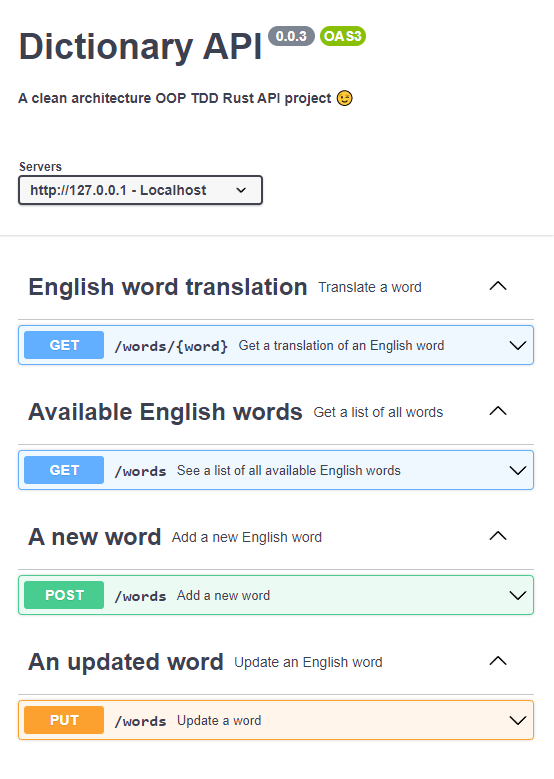
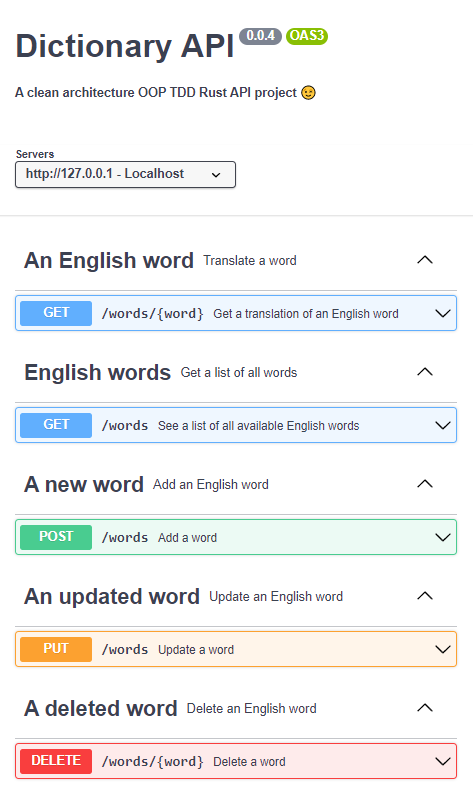
update

diff --git a/src/frameworks_and_drivers/front_controller.rs b/src/frameworks_and_drivers/front_controller.rs
@@ -79,7 +79,7 @@ mod tests {
         //find existing word
         let http_request: Box<dyn HttpRequestInterface> = Box::new(HttpRequest::new(
             HttpMethod::Get,
-            "/words/ability".to_owned(),
+            "/words/testworda".to_owned(),
             None,
         ));
 
@@ -87,12 +87,12 @@ mod tests {
 
         assert!(http_response
             .view_response()
-            .contains("ability\n1000\nспособность"));
+            .contains("testworda\n1000\nлебедь"));
 
         //find non-existing word
         let http_request: Box<dyn HttpRequestInterface> = Box::new(HttpRequest::new(
             HttpMethod::Get,
-            "/words/qazxsw".to_owned(),
+            "/words/notexistant".to_owned(),
             None,
         ));
 
@@ -100,7 +100,7 @@ mod tests {
 
         assert!(http_response
             .view_response()
-            .contains("Word \"qazxsw\" is not found"));
+            .contains("Word \"notexistant\" is not found"));
     }
 
     #[test]
@@ -124,18 +124,19 @@ mod tests {
 
         let http_response = front_controller.delegate(http_request);
 
-        assert!(["a", "ability", "able"]
+        assert!(["testworda", "testwordb", "testwordc"]
             .iter()
             .all(|&word| http_response.view_response().contains(word)));
     }
 
     #[test]
-    fn add_word_and_update() {
+    fn add_word_then_update_then_delete() {
         let router: Box<dyn RouterInterface> = {
             let mut routes = vec![
                 Route::new(HttpMethod::Get, "/words/*", "find_word"),
                 Route::new(HttpMethod::Post, "/words", "add_word"),
                 Route::new(HttpMethod::Put, "/words", "update_word"),
+                Route::new(HttpMethod::Delete, "/words/*", "delete_word"),
             ];
 
             let mut router = Box::new(Router::new());
@@ -153,7 +154,7 @@ mod tests {
 
         let mut front_controller = FrontController::new(dispatcher, router, word_unit);
 
-        //get non-existing word
+        //sure word not exists
         let http_request: Box<dyn HttpRequestInterface> = Box::new(HttpRequest::new(
             HttpMethod::Get,
             "/words/newword".to_owned(),
@@ -166,24 +167,26 @@ mod tests {
             .view_response()
             .starts_with("HTTP/1.1 404 Not Found"));
 
-        //add non-existing word
+        //add word
         let http_request: Box<dyn HttpRequestInterface> = Box::new(HttpRequest::new(
             HttpMethod::Post,
             "/words".to_owned(),
             Some(ApplicationRequest::Word((
                 "newword".to_owned(),
-                3000,
+                5000,
                 "новое слово".to_owned(),
             ))),
         ));
 
         let http_response = front_controller.delegate(http_request);
 
+        front_controller.commit_changes();
+
         assert!(http_response
             .view_response()
             .starts_with("HTTP/1.1 201 Created"));
 
-        //check new word
+        //check word added
         let http_request: Box<dyn HttpRequestInterface> = Box::new(HttpRequest::new(
             HttpMethod::Get,
             "/words/newword".to_owned(),
@@ -192,10 +195,66 @@ mod tests {
 
         let http_response = front_controller.delegate(http_request);
 
-        //assert_eq!("", http_response.view_response());
-
         assert!(http_response.view_response().starts_with("HTTP/1.1 200 OK"));
 
+        //update word
+        let http_request: Box<dyn HttpRequestInterface> = Box::new(HttpRequest::new(
+            HttpMethod::Put,
+            "/words".to_owned(),
+            Some(ApplicationRequest::Word((
+                "newword".to_owned(),
+                7000,
+                "новоеслово".to_owned(),
+            ))),
+        ));
+
+        let http_response = front_controller.delegate(http_request);
+
         front_controller.commit_changes();
+
+        assert!(http_response
+            .view_response()
+            .starts_with("HTTP/1.1 204 No Content"));
+
+        //check word updated
+        let http_request: Box<dyn HttpRequestInterface> = Box::new(HttpRequest::new(
+            HttpMethod::Get,
+            "/words/newword".to_owned(),
+            None,
+        ));
+
+        let http_response = front_controller.delegate(http_request);
+
+        assert!(http_response
+            .view_response()
+            .contains("newword\n7000\nновоеслово"));
+
+        //delete word
+        let http_request: Box<dyn HttpRequestInterface> = Box::new(HttpRequest::new(
+            HttpMethod::Delete,
+            "/words/newword".to_owned(),
+            None,
+        ));
+
+        let http_response = front_controller.delegate(http_request);
+
+        front_controller.commit_changes();
+
+        assert!(http_response
+            .view_response()
+            .starts_with("HTTP/1.1 204 No Content"));
+
+        //check word deleted
+        let http_request: Box<dyn HttpRequestInterface> = Box::new(HttpRequest::new(
+            HttpMethod::Get,
+            "/words/newword".to_owned(),
+            None,
+        ));
+
+        let http_response = front_controller.delegate(http_request);
+
+        assert!(http_response
+            .view_response()
+            .starts_with("HTTP/1.1 404 Not Found"));
     }
 }

diff --git a/tests/add_word.rs b/tests/add_word.rs
@@ -27,7 +27,7 @@ fn add_update_delete() {
                 "-H",
                 "Content-Type: text/plain",
                 "--data-binary",
-                "newword\n3000\nновое слово\n",
+                "newword\n5000\nновое слово\n",
             ])
             .output()
             .expect("Failed to execute command");
@@ -43,7 +43,7 @@ fn add_update_delete() {
                 "-H",
                 "Content-Type: text/plain",
                 "--data-binary",
-                "newword\n3000\nновое слово\n",
+                "newword\n5000\nновое слово\n",
             ])
             .output()
             .expect("Failed to execute command");
@@ -60,7 +60,7 @@ fn add_update_delete() {
                 "-H",
                 "Content-Type: text/plain",
                 "--data-binary",
-                "newword\n5000\nновоеслово\n",
+                "newword\n7000\nновоеслово\n",
             ])
             .output()
             .expect("Failed to execute command");
@@ -75,9 +75,21 @@ fn add_update_delete() {
         let page_check_updated = String::from_utf8(curl_output.stdout.as_slice().to_owned())
             .expect("Failed to convert to String");
 
-        //TODO delete word
+        //delete word
+        let curl_output = Command::new("curl")
+            .args(&["-X", "DELETE", "http://localhost/words/newword", "-i"])
+            .output()
+            .expect("Failed to execute command");
+        let page_delete = String::from_utf8(curl_output.stdout.as_slice().to_owned())
+            .expect("Failed to convert to String");
 
-        //TODO check if word exists
+        //check if word exists
+        let curl_output = Command::new("curl")
+            .arg("http://localhost/words/newword")
+            .output()
+            .expect("Failed to execute command");
+        let page_check_deleted = String::from_utf8(curl_output.stdout.as_slice().to_owned())
+            .expect("Failed to convert to String");
 
         child.kill().expect("Failed to stop cargo");
 
@@ -88,7 +100,12 @@ fn add_update_delete() {
             page_add_existing
         );
         assert!(page_update.starts_with("HTTP/1.1 204 No Content"));
-        assert!(page_check_updated.starts_with("newword\n5000"));
+        assert!(page_check_updated.starts_with("newword\n7000"));
+        assert!(page_delete.starts_with("HTTP/1.1 204 No Content"));
+        assert_eq!(
+            "Word \"newword\" is not found \u{1F622}",
+            page_check_deleted
+        );
     } else {
         assert!(false);
     }

diff --git a/tests/get_word.rs b/tests/get_word.rs
@@ -11,14 +11,14 @@ fn get() {
         thread::sleep(Duration::from_secs(1)); //time to start server
 
         let curl_output = Command::new("curl")
-            .arg("http://localhost/words/ability")
+            .arg("http://localhost/words/testworda")
             .output()
             .expect("Failed to execute command");
         let found = String::from_utf8(curl_output.stdout.as_slice().to_owned())
             .expect("Failed to convert to String");
 
         let curl_output = Command::new("curl")
-            .arg("http://localhost/words/qazxsw")
+            .arg("http://localhost/words/notexistant")
             .output()
             .expect("Failed to execute command");
         let not_found = String::from_utf8(curl_output.stdout.as_slice().to_owned())
@@ -26,7 +26,7 @@ fn get() {
 
         let curl_output = Command::new("curl")
             .arg("-I")
-            .arg("http://localhost/words/ability")
+            .arg("http://localhost/words/testworda")
             .output()
             .expect("Failed to execute command");
         let bad_request = String::from_utf8(curl_output.stdout.as_slice().to_owned())
@@ -34,8 +34,8 @@ fn get() {
 
         child.kill().expect("Failed to stop cargo");
 
-        assert!(found.starts_with("ability\n1000\nспособность"));
-        assert!(not_found.starts_with("Word \"qazxsw\" is not found"));
+        assert!(found.starts_with("testworda\n1000\nлебедь"));
+        assert!(not_found.starts_with("Word \"notexistant\" is not found"));
         assert!(bad_request.starts_with("HTTP/1.1 400 Bad Request"));
     } else {
         assert!(false);

diff --git a/src/main.rs b/src/main.rs
@@ -30,6 +30,7 @@ fn main() {
             Route::new(HttpMethod::Get, "/words", "view_all"),
             Route::new(HttpMethod::Post, "/words", "add_word"),
             Route::new(HttpMethod::Put, "/words", "update_word"),
+            Route::new(HttpMethod::Delete, "/words/*", "delete_word"),
         ];
 
         let mut router = Box::new(Router::new());

diff --git a/README.md b/README.md
@@ -1,8 +1,10 @@
 # About
 
-This is a public repo of my private Rust project done in OOP-paradigm with TDD according to Uncle Bob's interpretation of clean architecture. Here are just a few screens and rust files. The project is under construction.
+It is a public repo of my private Rust project done in OOP-paradigm with TDD according to Uncle Bob's interpretation of Clean Architecture. Here are just a few screens and rust files. The project is under construction.
 
-It is supposed to be a web API implemented with the standard library (deliberately without third-party crates) including a web server. If you are hiring, contact me at [spolanyev@gmail.com](mailto:spolanyev@gmail.com?subject=Rust%3A%20vacancy).
+It is supposed to be a web API deliberately implemented without third-party crates, including a web server.
+
+### Hiring? Contact me at [spolanyev@gmail.com](mailto:spolanyev@gmail.com?subject=Rust%3A%20vacancy).
 
 ![readme screen](https://github.com/spolanyev/rust-oop-tdd-clean-architecture-web-api/blob/main/readme.png?raw=true)
 
